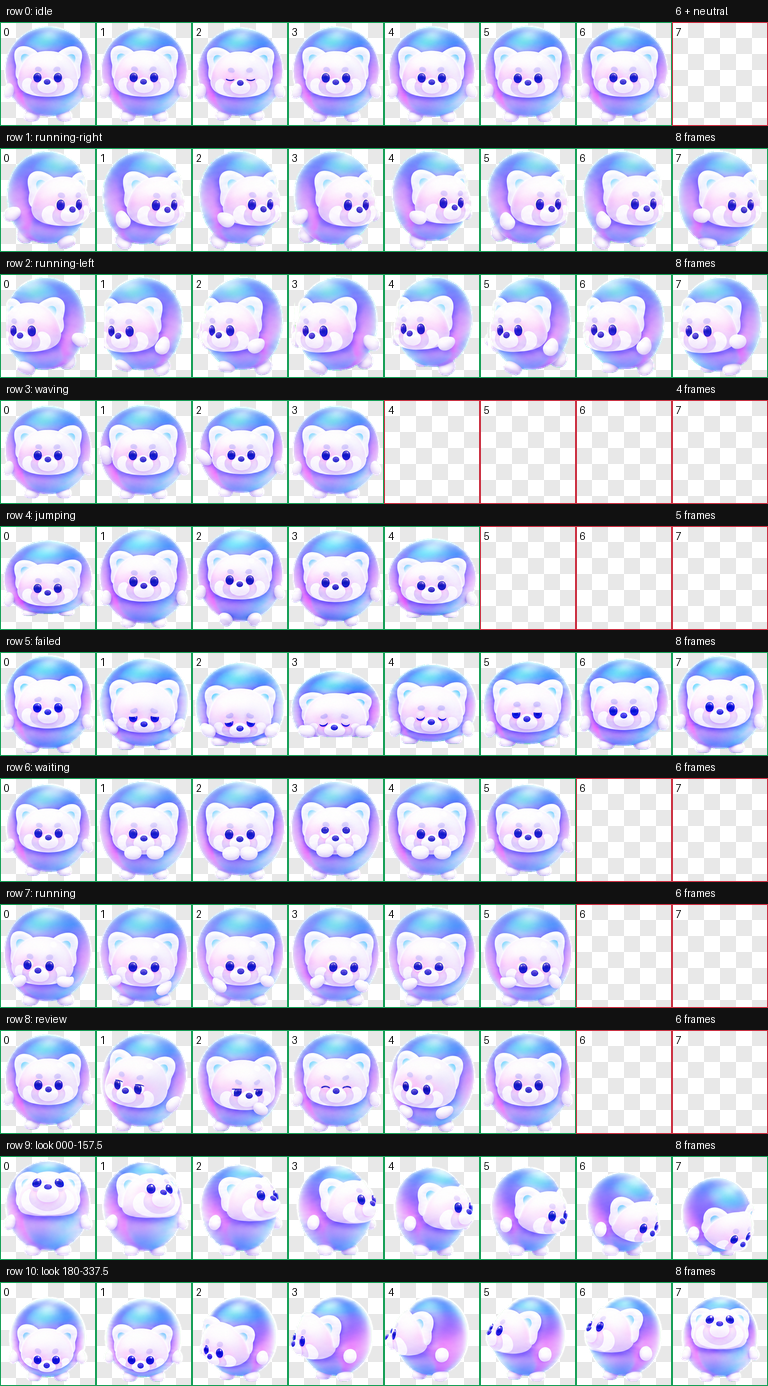
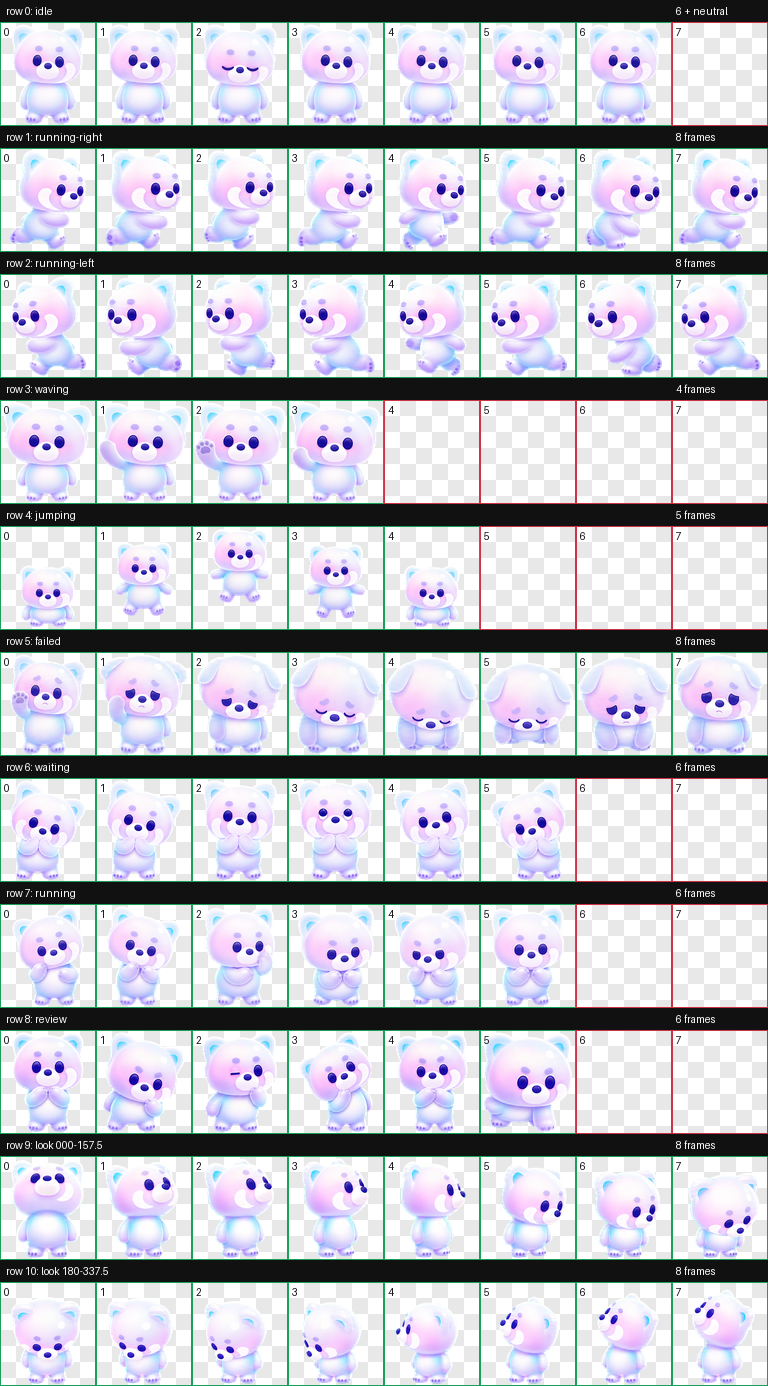
Redesign 点仔 as the approved pale jelly pet
Replace the old orb-based 点仔 with the approved pale jelly v2 pet while preserving 一二、布布 and automatic sleep mode.

diff --git a/README.md b/README.md
@@ -1,6 +1,6 @@
 # 一二 × 布布 × 点仔：Codex 宠物
 
-一套可在 Codex Desktop 中切换使用的三角色宠物包，包含“一二”“布布”和“点仔”。点仔保留蓝紫渐变球体、白色小熊脸与深蓝大眼，并长出了短短的手脚。三个角色都有完整工作状态动画；一二和布布还可在每天 22:00–次日 08:00 自动切换为睡眠动画。
+一套可在 Codex Desktop 中切换使用的三角色宠物包，包含“一二”“布布”和“点仔”。点仔采用浅青蓝、粉紫与薰衣草色的果冻质感，保留白色熊猫脸、深蓝大眼和胖爪，并完全去掉了原 Logo 的圆球外壳。三个角色都有完整工作状态动画；一二和布布还可在每天 22:00–次日 08:00 自动切换为睡眠动画。
 
 > 这是非官方的粉丝制作版本。公开发布或再分发角色素材前，请先取得角色权利人的授权；详见 [ASSET-NOTICE.md](ASSET-NOTICE.md)。
 

diff --git a/ASSET-NOTICE.md b/ASSET-NOTICE.md
@@ -1,6 +1,6 @@
 # 角色素材声明
 
-本项目中的“一二”“布布”名称、角色形象、动画图集和预览图片不属于安装脚本的 MIT 许可范围。
+本项目中的“一二”“布布”“点仔”名称、角色形象、动画图集和预览图片不属于安装脚本的 MIT 许可范围。
 
 本项目是非官方粉丝制作版本，不表示角色原作者或权利人的认可、合作或授权。角色相关权利归相应权利人所有。
 
